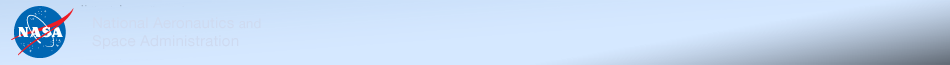
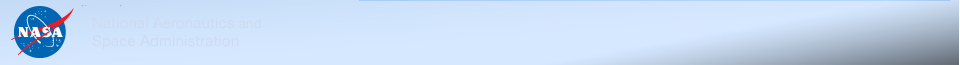
header

diff --git a/css/style.css b/css/style.css
@@ -25,6 +25,32 @@ h3 {
   width: 960px;
   margin: auto;
 }
+header {
+  position: relative;
+  left: 0;
+  text-align: right;
+}
+#banner {
+  height: 65px;
+}
+#banner > a > div {
+  position: absolute;
+  left: 0;
+  top: 0;
+  height: 65px;
+  width: 265px;
+}
+header > div:not(#banner) {
+  height: 79px;
+}
+header > div:not(#banner) > a:nth-child(1) > img {
+  position: absolute;
+  left: 0;
+}
+header > div:not(#banner) > a:nth-child(2) > img {
+  position: absolute;
+  right: 0;
+}
 nav{
   float: left;
   width: 200px;
@@ -42,9 +68,11 @@ ol {
   float: left;
   width: 760px;
   background-color: #d4deeb;
+  border-top-right-radius: 18px;
 }
 #content > #top {
   background-color: #FFF;
+  border-top-right-radius: 18px;
 }
 #content > #top > h2 {
   padding-bottom: 10px;

diff --git a/index.html b/index.html
@@ -8,7 +8,16 @@
 </head>
 <body>
   <div id="wrap">
-    <header></header>
+    <header>
+      <div id="banner">
+        <img src="images/NASABanner-trans.png" alt="NASA">
+        <a href=""><div></div></a>
+      </div>
+      <div> <!-- Create spacer -->
+        <a href=""><img src="images/topbanner_ssetitle.png" alt="Solar System Exploration"></a>
+        <a href=""><img src="images/topbanner_planets.png" alt="Planets"></a>
+      </div>
+    </header>
 
     <nav class="leftNav">
 
